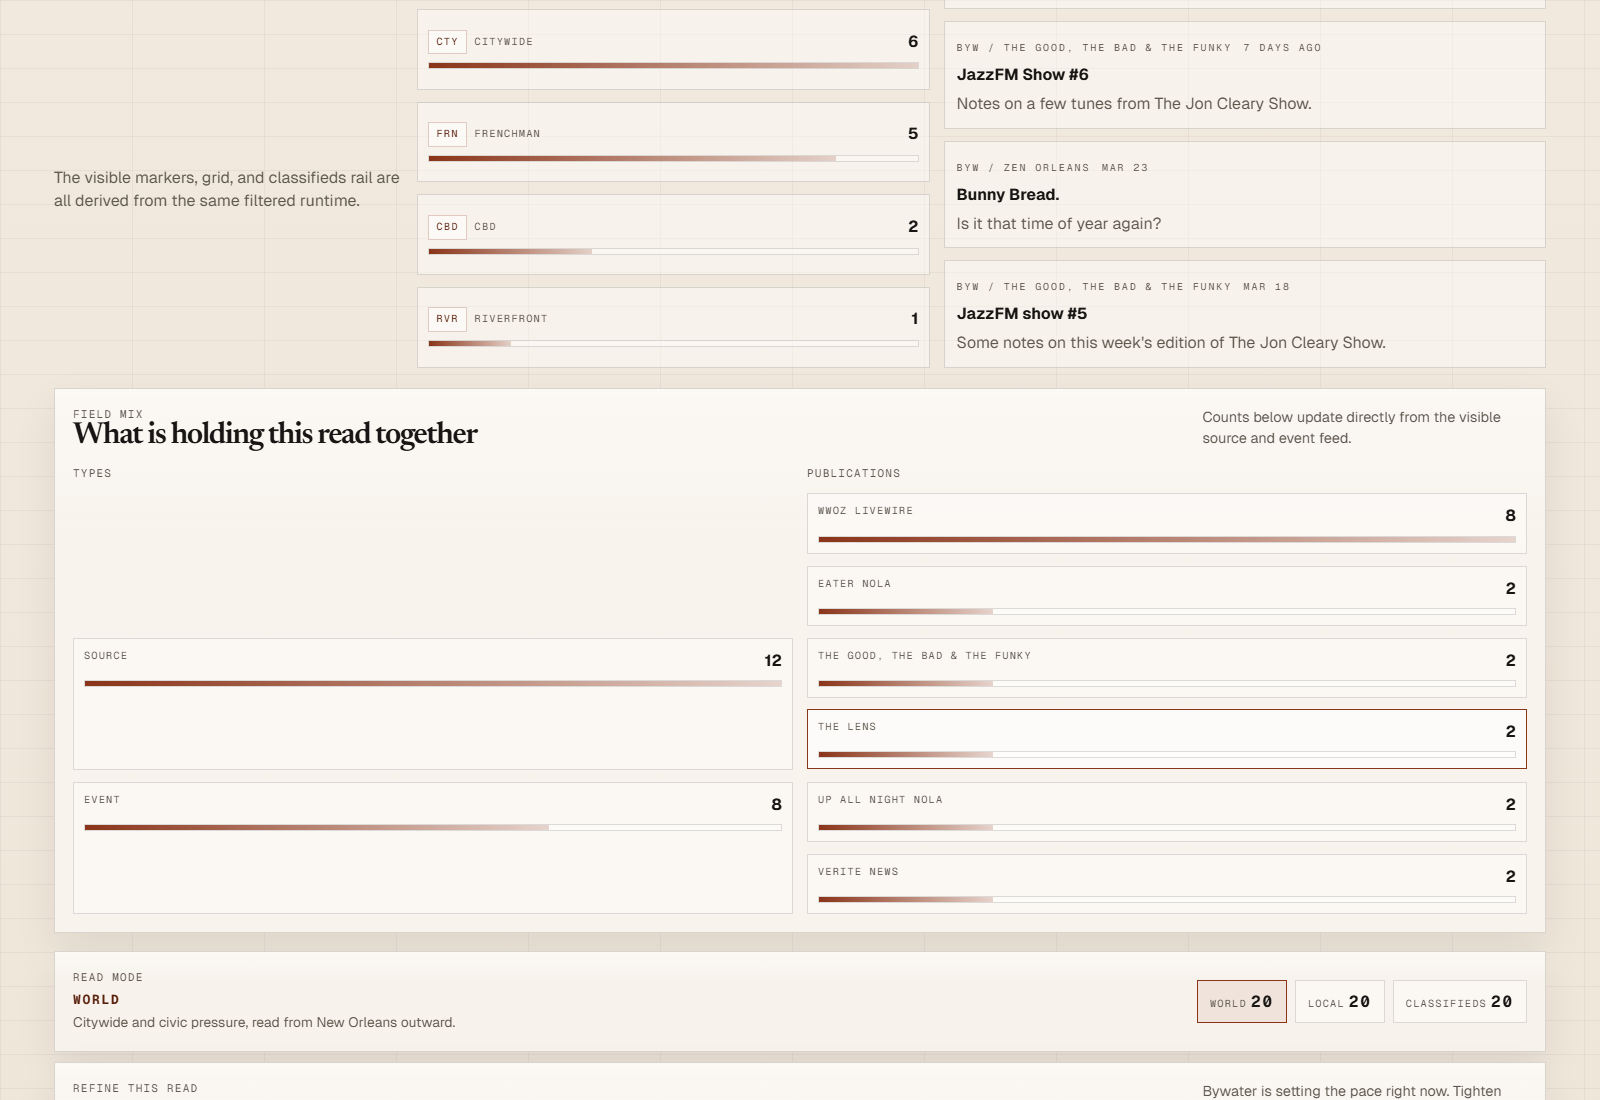
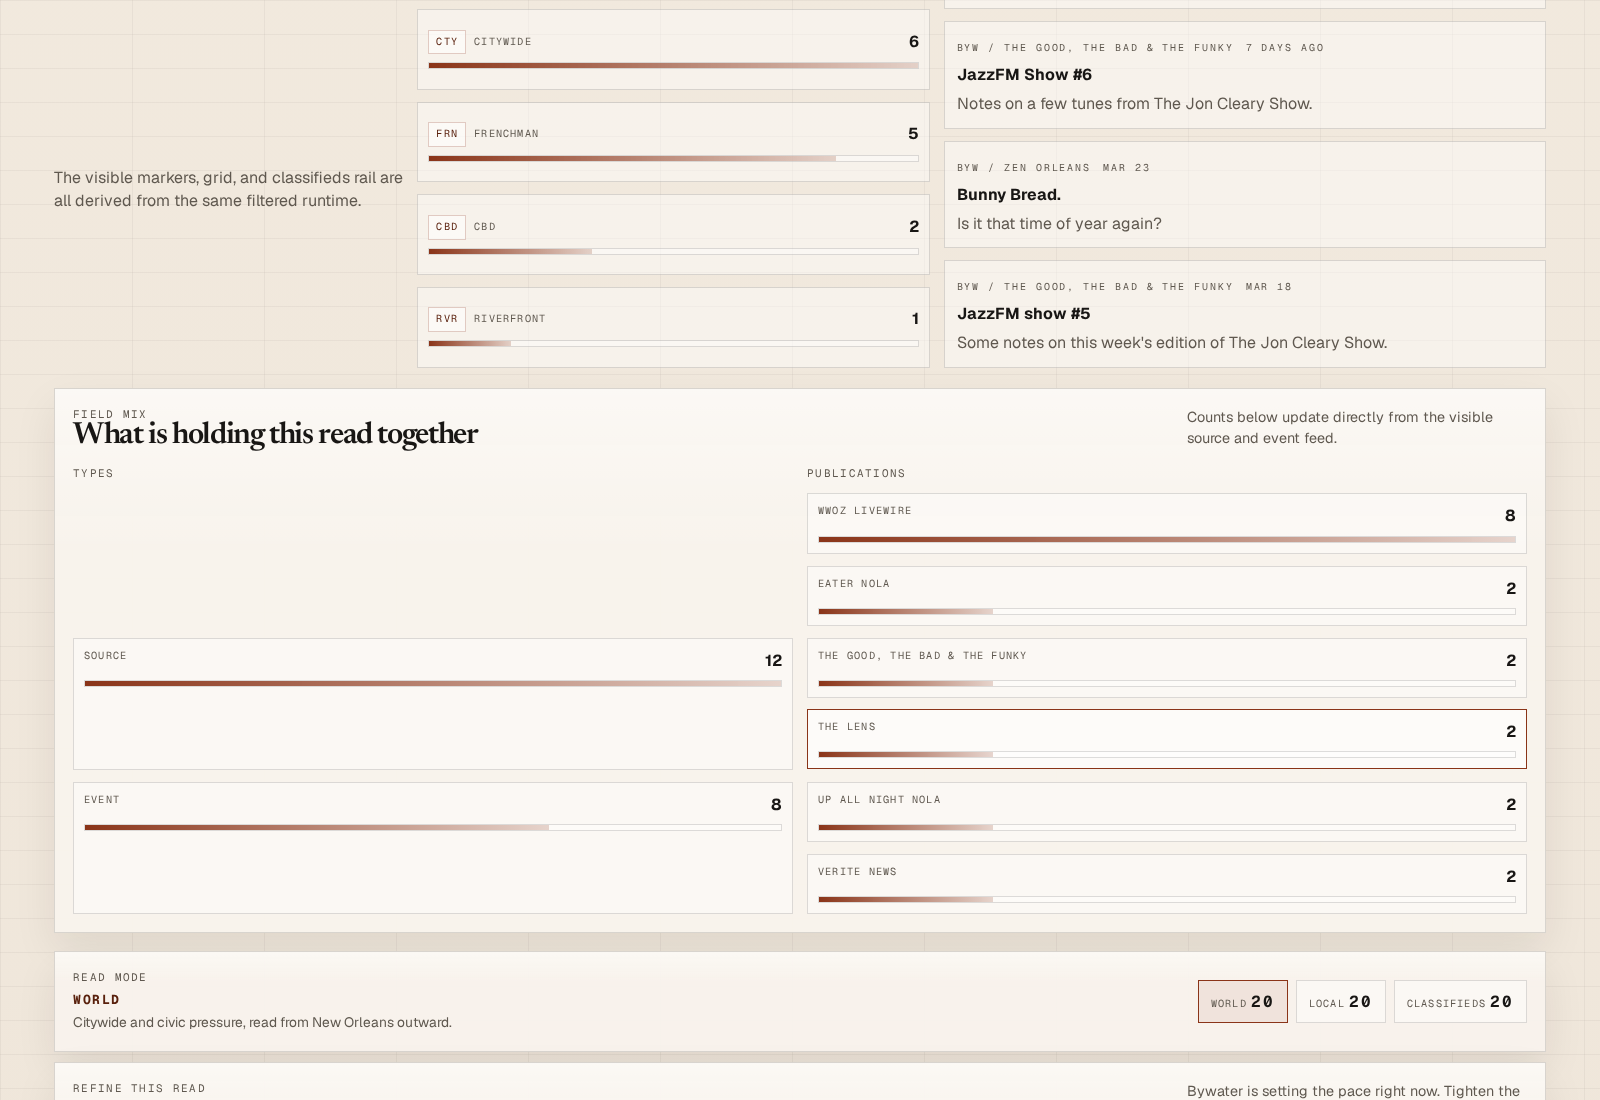
Give the case study real screenshots, and gate the layout that broke
Three follow-ups from the Signal Atlas case study, closed.

The page shipped with one usable screenshot because the rest of the
library showed a literal "undefined" where a place name belongs. That is
fixed upstream now rather than worked around, so the shots could be
retaken against a correct build: the gallery carries four — the local
read, the world read, a populated curated set, and the place spine.

Add check:overflow. check:a11y and check:links both passed on a page
that scrolled sideways at 390px, because neither lays the page out. The
new script serves the built site, walks every page at 390 and 768, and
names the widest element that is not inside something set to scroll. It
was proven against a real failure before being trusted: reintroducing a
prose value in a nowrap .spec-table cell makes it exit 1 and report
<table class="spec-table"> at 702px.

playwright becomes an explicit devDependency. It was reachable only
transitively through @playwright/mcp, which is not a sound base for a CI
gate. The workflow installs chromium-headless-shell before the check.

diff --git a/apps/stex/public/assets/css/spec.css b/apps/stex/public/assets/css/spec.css
@@ -407,8 +407,26 @@
    surface. Framing it as plated artwork — hairline rule, inset ground, no
    full-bleed — keeps it from glaring against the void palette and reads as a
    reproduction rather than part of the page chrome. */
+.shot-grid {
+  display: grid;
+  grid-template-columns: repeat(auto-fit, minmax(24rem, 1fr));
+  gap: clamp(1.4rem, 3vw, 2.4rem);
+  margin-top: 1.2rem;
+}
+
+/* minmax() floors at 24rem, which would push the track past a narrow viewport;
+   collapse to a single column before that can happen. */
+@media (max-width: 46rem) {
+  .shot-grid { grid-template-columns: minmax(0, 1fr); }
+}
+
 .spec-shot {
   margin-top: 1.4rem;
+}
+
+.shot-grid .spec-shot {
+  margin-top: 0;
+  min-width: 0;
 }
 
 .spec-shot img {

diff --git a/MEMORY.md b/MEMORY.md
@@ -1,5 +1,13 @@
 # St. Expedite Press — Change Log
 
+## [2026-08-24] — Lab — Signal Atlas fixed at the source, real gallery, and an overflow gate
+
+**Changed:** Follow-through on the three items left open earlier today. (1) **Fixed the `undefined` leak in Signal Atlas itself** (`St-Expedite-Press/on-high-in-blue-tomorrows`) rather than working around it: the runtime export carries `placeKey` but never a resolved `place` name — all 20 feed items lack it — so every source rendered a literal "undefined" in the grid and focus panel, and the map button read "Show undefined on the map". Labels now resolve from `atlasMap.markers` via `placeKey`. (2) **Re-captured the screenshots** against the fixed build and replaced the single shot on `/lab/signal-atlas` with a four-shot gallery — local read, world read, a populated curated set, and the place spine. (3) **Added `check:overflow`** (`scripts/check-overflow.mjs`), wired into `npm run check` and into `validate-stex-pr.yml` behind a Chromium install step.
+**Bugs found and fixed:** Two further defects surfaced in Signal Atlas while re-shooting. `.atlas-map__marker-label` is `text-anchor: middle` but the markup anchored each label near its pill's *left edge*, drawing every map label about half its own width too far left — visible in every previously committed screenshot. And every label sat at a fixed `marker.x + 10 / marker.y + 10`, so the downtown places (which sit within a few pixels of each other) stacked their pills into one unreadable black bar; labels are now placed in the first non-colliding slot, densest place first. Its `scripts/screenshot.mjs` was also opening the *empty draft* mixtape instead of a seeded one, full-paging a 5,132px home view, and shooting the map before fitting or zooming it.
+**Checks:** build, lint:html, check:links, check:a11y, **check:overflow**, check:docs, assets:check, check:audit (0 vulnerabilities), 88 backend tests. Signal Atlas gated on its own `npm run smoke`. Gallery verified at 1280px (two columns) and 390px (one column), all four images loading at 1600x1100.
+**Follow-ups:** `playwright` is now an explicit root devDependency; it had been reachable only transitively through `@playwright/mcp`, which is not a sound base for a CI gate. CI gains a `playwright install chromium-headless-shell` step, so PR validation is roughly a minute slower. `docs/screenshots/01_full_app.png` and `04_filter_now.png` in the Signal Atlas repo are stale captures of the retired dark-navy design and are not regenerated by the script — left in place, since that repo's doctrine requires approval before deleting generated assets.
+**Tooling notes:** `check:overflow` was proven against a real failure before being trusted: reintroducing a prose value in a `.spec-table` cell made it exit 1 and name the culprit (`<table class="spec-table"> at 702px`). A check never observed failing is not a check. It reuses `scripts/lib/static-server.mjs` rather than hand-rolling a server, and ignores anything inside a container that is deliberately scrollable, so the `.spec-figure` diagrams do not trip it.
+
 ## [2026-08-24] — Lab — Signal Atlas case study, and two live copy corrections
 
 **Changed:** The Lab's own copy named Signal Atlas the flagship demonstration and `PHASE-PLAN.md` said it should lead Lab credibility work, but the Lab index listed only Practice/Architecture/Instruments/Schedule and the sole Signal Atlas presence was one card inside `/lab/practice` whose CTA left the site for a GitHub repo. Added `/lab/signal-atlas` as a real case study — world model (Source/Event/Place/Mixtape), read path, one product screenshot, and a named present-state section — and promoted it to entry 01 on the Lab index plus first item in the Lab wing nav. The practice-page CTA now leads inward to the case study, with the repo demoted to secondary.

diff --git a/apps/stex/MEMORY.md b/apps/stex/MEMORY.md
@@ -1,5 +1,12 @@
 # Press Web App Memory
 
+## 2026-08-24 — Lab — Signal Atlas gallery and the overflow gate
+
+**Changed:** `/lab/signal-atlas` now carries a four-shot gallery instead of one screenshot — local read, world read, a populated curated set, and the place spine — behind a new `.shot-grid` (`auto-fit` at a 24rem floor, collapsed to one column under 46rem so the floor cannot outgrow a narrow viewport). All four are fresh captures taken after the upstream `undefined` fix, so the copy and the images now agree. Added `scripts/check-overflow.mjs` and `check:overflow`, wired into `npm run check` and CI.
+**Checks:** build, lint:html, check:links, check:a11y, check:overflow, check:docs, assets:check, check:audit; verified at 1280px and 390px.
+**Follow-ups:** The gallery adds ~1.2MB of PNG across four images, all `loading="lazy"` below the first. No image tooling (cwebp, ImageMagick, PIL) is available on this box, so nothing could be converted to WebP or resized; worth doing when a machine with those tools is at hand.
+**Tooling notes:** `check:overflow` reuses `scripts/lib/static-server.mjs`. It deliberately ignores elements inside a container whose `overflow-x` is set, which is what lets the `.spec-diagram` figures keep their intentional internal scroll without failing the gate.
+
 ## 2026-08-24 — Lab — Signal Atlas case study page
 
 **Changed:** New `/lab/signal-atlas` built from existing components only — `.doc-index` for the index entry, `.spec-table--matrix` for the object table, the `.spec-figure`/`.spec-diagram` inline-SVG idiom from `lab/architecture.astro` for the read-path diagram, and `.doc-defs` for present state. Added `pages.labSignalAtlas` to `site.json` and a leading `/lab/signal-atlas` item to `site.wings.lab.nav`; renumbered the Lab index contents 01–05. One screenshot added through `assets/source/img/` and `npm run assets:sync` (the publish tree is a mirror — never drop files straight into `public/assets/img/`).

diff --git a/AGENTS.md b/AGENTS.md
@@ -118,13 +118,14 @@ npm run dev:worker       # Wrangler dev (Worker)
 # deploy (explicit authorization required)
 npm run deploy:web  |  deploy:rice  |  deploy:chat  |  deploy:admin  |  deploy:worker
 # checks
-npm run check            # docs + build + lint:html + links + a11y + worker tests + audit
+npm run check            # docs + build + lint:html + links + a11y + overflow + worker tests + audit
+npm run check:overflow   # layout: no page wider than the viewport at 390/768 (needs Chromium)
 npm run check:rice       # RICE asset integrity
 npm run check:docs       # documentation coverage (no orphaned docs)
 npm run assets:sync | assets:check
 ```
 
-Run the narrowest relevant checks: web/CSS/Astro → `build` + `lint:html` + `check:links` + `check:a11y`; RICE → `check:rice` + `build:rice`; Worker → `test:worker` and update `openapi.yaml`; docs moves → `check:docs`; media → `assets:sync` + `assets:check`. On Windows, shell scripts route through `scripts/run-bash.mjs` (WSL → Git Bash).
+Run the narrowest relevant checks: web/CSS/Astro → `build` + `lint:html` + `check:links` + `check:a11y` + `check:overflow`; RICE → `check:rice` + `build:rice`; Worker → `test:worker` and update `openapi.yaml`; docs moves → `check:docs`; media → `assets:sync` + `assets:check`. On Windows, shell scripts route through `scripts/run-bash.mjs` (WSL → Git Bash).
 
 ## Git and editing discipline
 
